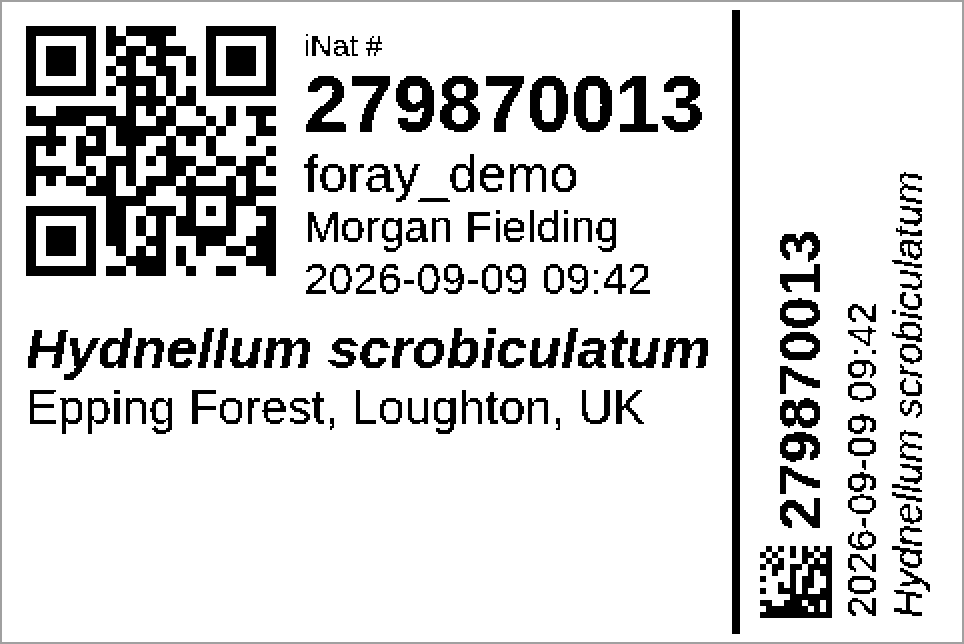
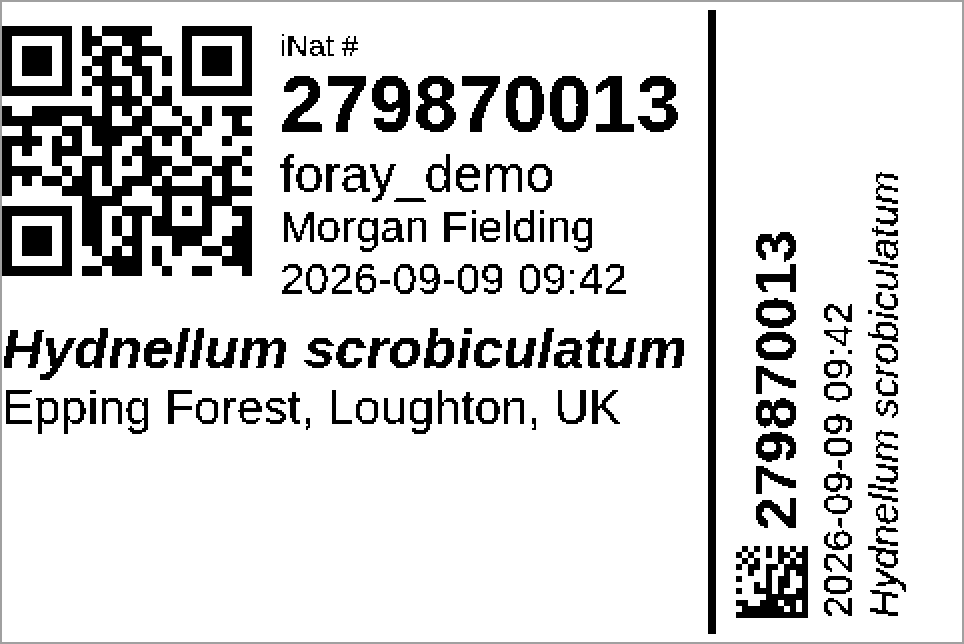
Shift the label left so the side strip's last line prints
The species line at the far edge of the side strip was being lost off the
label. Everything is now drawn 1.5 mm (12 dots) further left, towards the
QR code, which uses the left margin that was going spare.

- label.js: shiftMm option, applied before rotation so it is always
  across the label's width.
- Settings: "Shift left (mm)", default 1.5, for every printing method.
- README: document it; re-render the example label with the default.

Changed region(s): [[0.0, 0.0, 0.9647, 0.9938]]

diff --git a/js/label.js b/js/label.js
@@ -125,8 +125,9 @@
   /**
    * Renders a label for one observation.
    * obs:  {id, username, date, time, species, rank, place}
-   * opts: {widthMm, heightMm, rotation, qrUsernameFirst}
-   *       (rotation: degrees counter-clockwise)
+   * opts: {widthMm, heightMm, rotation, qrUsernameFirst, shiftMm}
+   *       (rotation: degrees counter-clockwise; shiftMm: moves everything
+   *       left, towards the QR code, before rotating)
    * Returns a canvas of widthMm*8 x heightMm*8 dots (swapped at 90/270).
    */
   function render(obs, opts) {
@@ -140,6 +141,9 @@
     ctx.fillRect(0, 0, W, H);
     ctx.fillStyle = '#000';
     ctx.textBaseline = 'alphabetic';
+    // Printers do not all place the image at the same spot across the label;
+    // shifting left keeps the side strip's last line on the label.
+    ctx.translate(-Math.round((+opts.shiftMm || 0) * DOTS_PER_MM), 0);
 
     // Scale all measurements from the 60 x 40 mm reference design.
     var k = Math.min(W / 480, H / 320);

diff --git a/index.html b/index.html
@@ -109,6 +109,7 @@
             </select>
           </label>
           <label>Left offset (dots)<input id="s-offset" type="number" min="0" max="200" step="1"></label>
+          <label>Shift left (mm)<input id="s-shift" type="number" min="0" max="5" step="0.25"></label>
           <label>Rotation
             <select id="s-rotate">
               <option value="0">None</option>
@@ -119,7 +120,7 @@
           </label>
           <label class="check"><input id="s-qr-swap" type="checkbox"> QR code: username before iNat #</label>
         </div>
-        <p class="small">Density, speed, media and offset apply to direct printing only. 8 dots = 1 mm.</p>
+        <p class="small">Shift left moves the whole label towards the QR code, for every printing method; raise it if the side strip's last line is cut off. Density, speed, media and left offset apply to direct printing only. 8 dots = 1 mm.</p>
       </details>
     </section>
   </div>

diff --git a/js/app.js b/js/app.js
@@ -6,12 +6,12 @@
 
   var DEFAULTS = {
     widthMm: 60, heightMm: 40, density: 10, speed: 3, media: 'gaps', offsetDots: 0, rotation: '270',
-    qrUsernameFirst: false
+    shiftMm: 1.5, qrUsernameFirst: false
   };
   var SETTING_INPUTS = {
     widthMm: 's-width', heightMm: 's-height', density: 's-density', speed: 's-speed',
     media: 's-media', offsetDots: 's-offset', rotation: 's-rotate',
-    qrUsernameFirst: 's-qr-swap'
+    shiftMm: 's-shift', qrUsernameFirst: 's-qr-swap'
   };
 
   var state = {

diff --git a/README.md b/README.md
@@ -23,7 +23,8 @@ There is no install and no build step. It is plain HTML and JavaScript.
 ## Label layout
 
 This is the demo label exactly as the page draws it (480 × 320 dots, shown at
-2×, with no rotation; the paper output direction is up). The observer is a demo
+2×, with the default 1.5 mm shift left and no rotation; the paper output
+direction is up). The observer is a demo
 account and the iNat number is made up.
 
 ![Example 60 × 40 mm label: QR code, iNat number 279870013, username foray_demo, name Morgan Fielding, date and time, species and location, with a cut-off side strip](docs/label-example.png)
@@ -103,6 +104,11 @@ Open **Label & printer settings** to adjust:
 * **Media:** labels with gaps (default), continuous roll, or black-mark labels.
 * **Left offset:** shifts the image right if the print sits too far left on
   the label.
+* **Shift left** (mm, default 1.5): moves the whole label towards the QR
+  code, for every printing method. The printer does not reach the far edge
+  of the side strip, so without it the strip's last line (the species) can
+  be cut off. Raise it if that line is still clipped; lower it if the QR code
+  is. The preview shows the result.
 * **Rotation:** turns the printed image to match how the label feeds.
   The default is 90° clockwise, which prints correctly on the M220 through
   the Windows driver in Chrome; the other options are none,

diff --git a/CHANGELOG.md b/CHANGELOG.md
@@ -6,6 +6,17 @@ All notable changes to this project are recorded here. The format follows
 
 ## [Unreleased]
 
+### Fixed
+
+- The side strip's last line (the species) could fall off the edge of the
+  label. The whole label now shifts 1.5 mm left, towards the QR code, for
+  every printing method.
+
+### Added
+
+- **Shift left (mm)** in Label & printer settings, to tune that shift for a
+  particular printer.
+
 ## [1.0.1] - 2026-09-27
 
 ### Fixed
